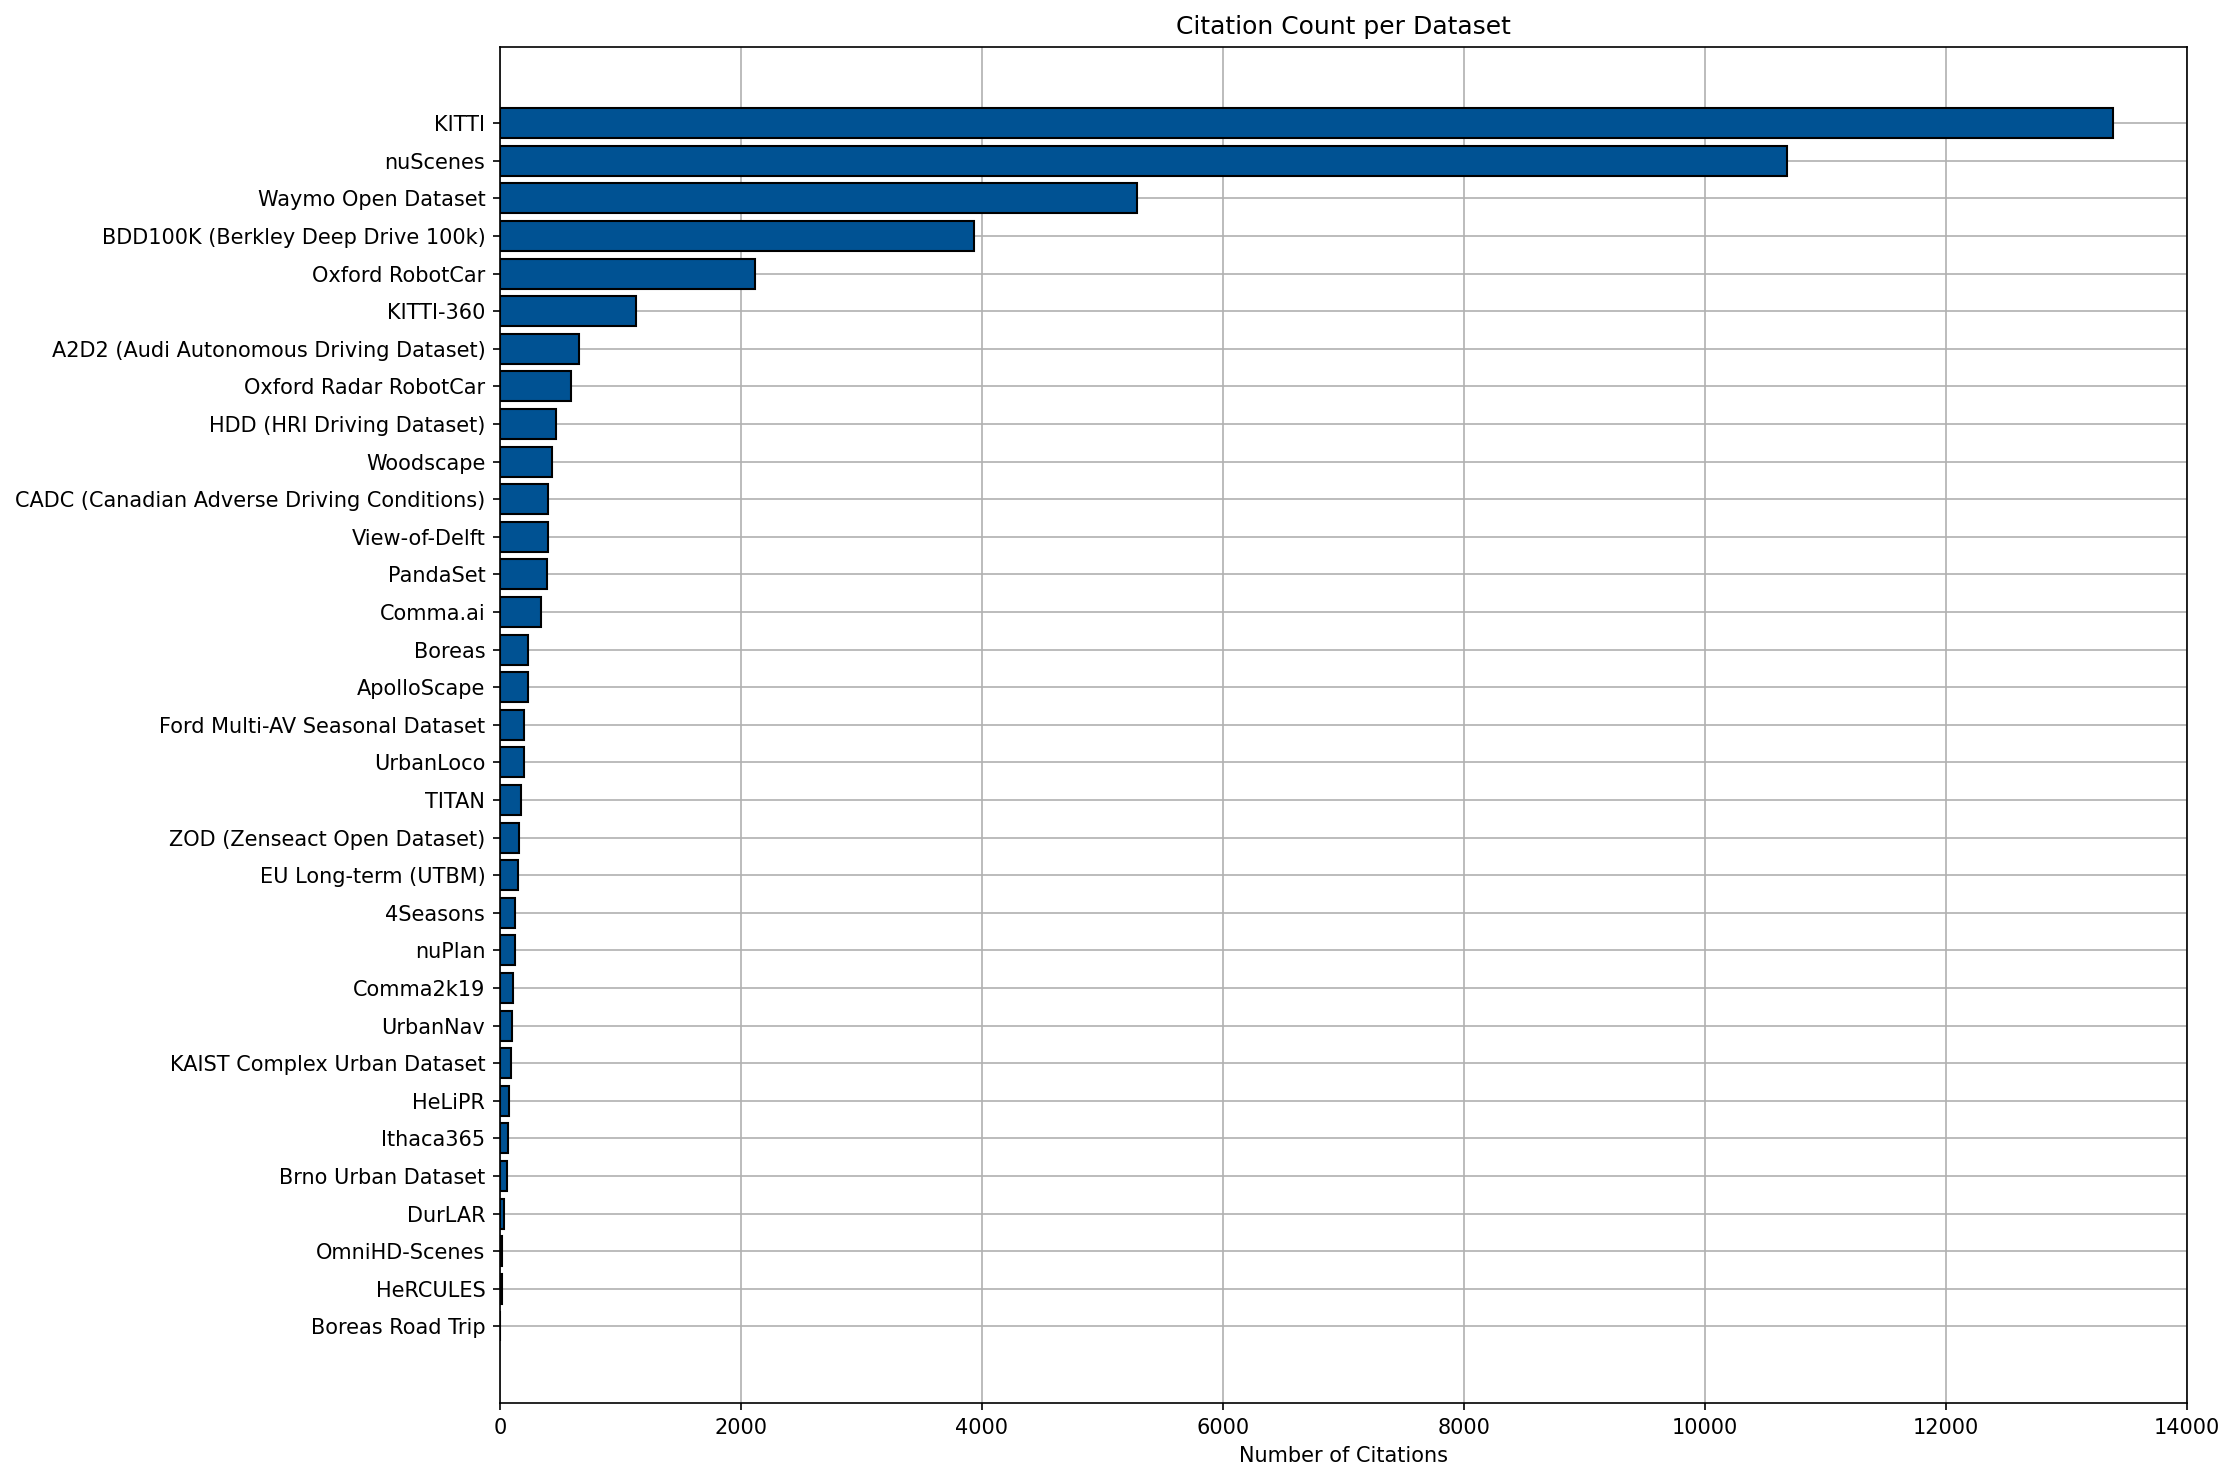
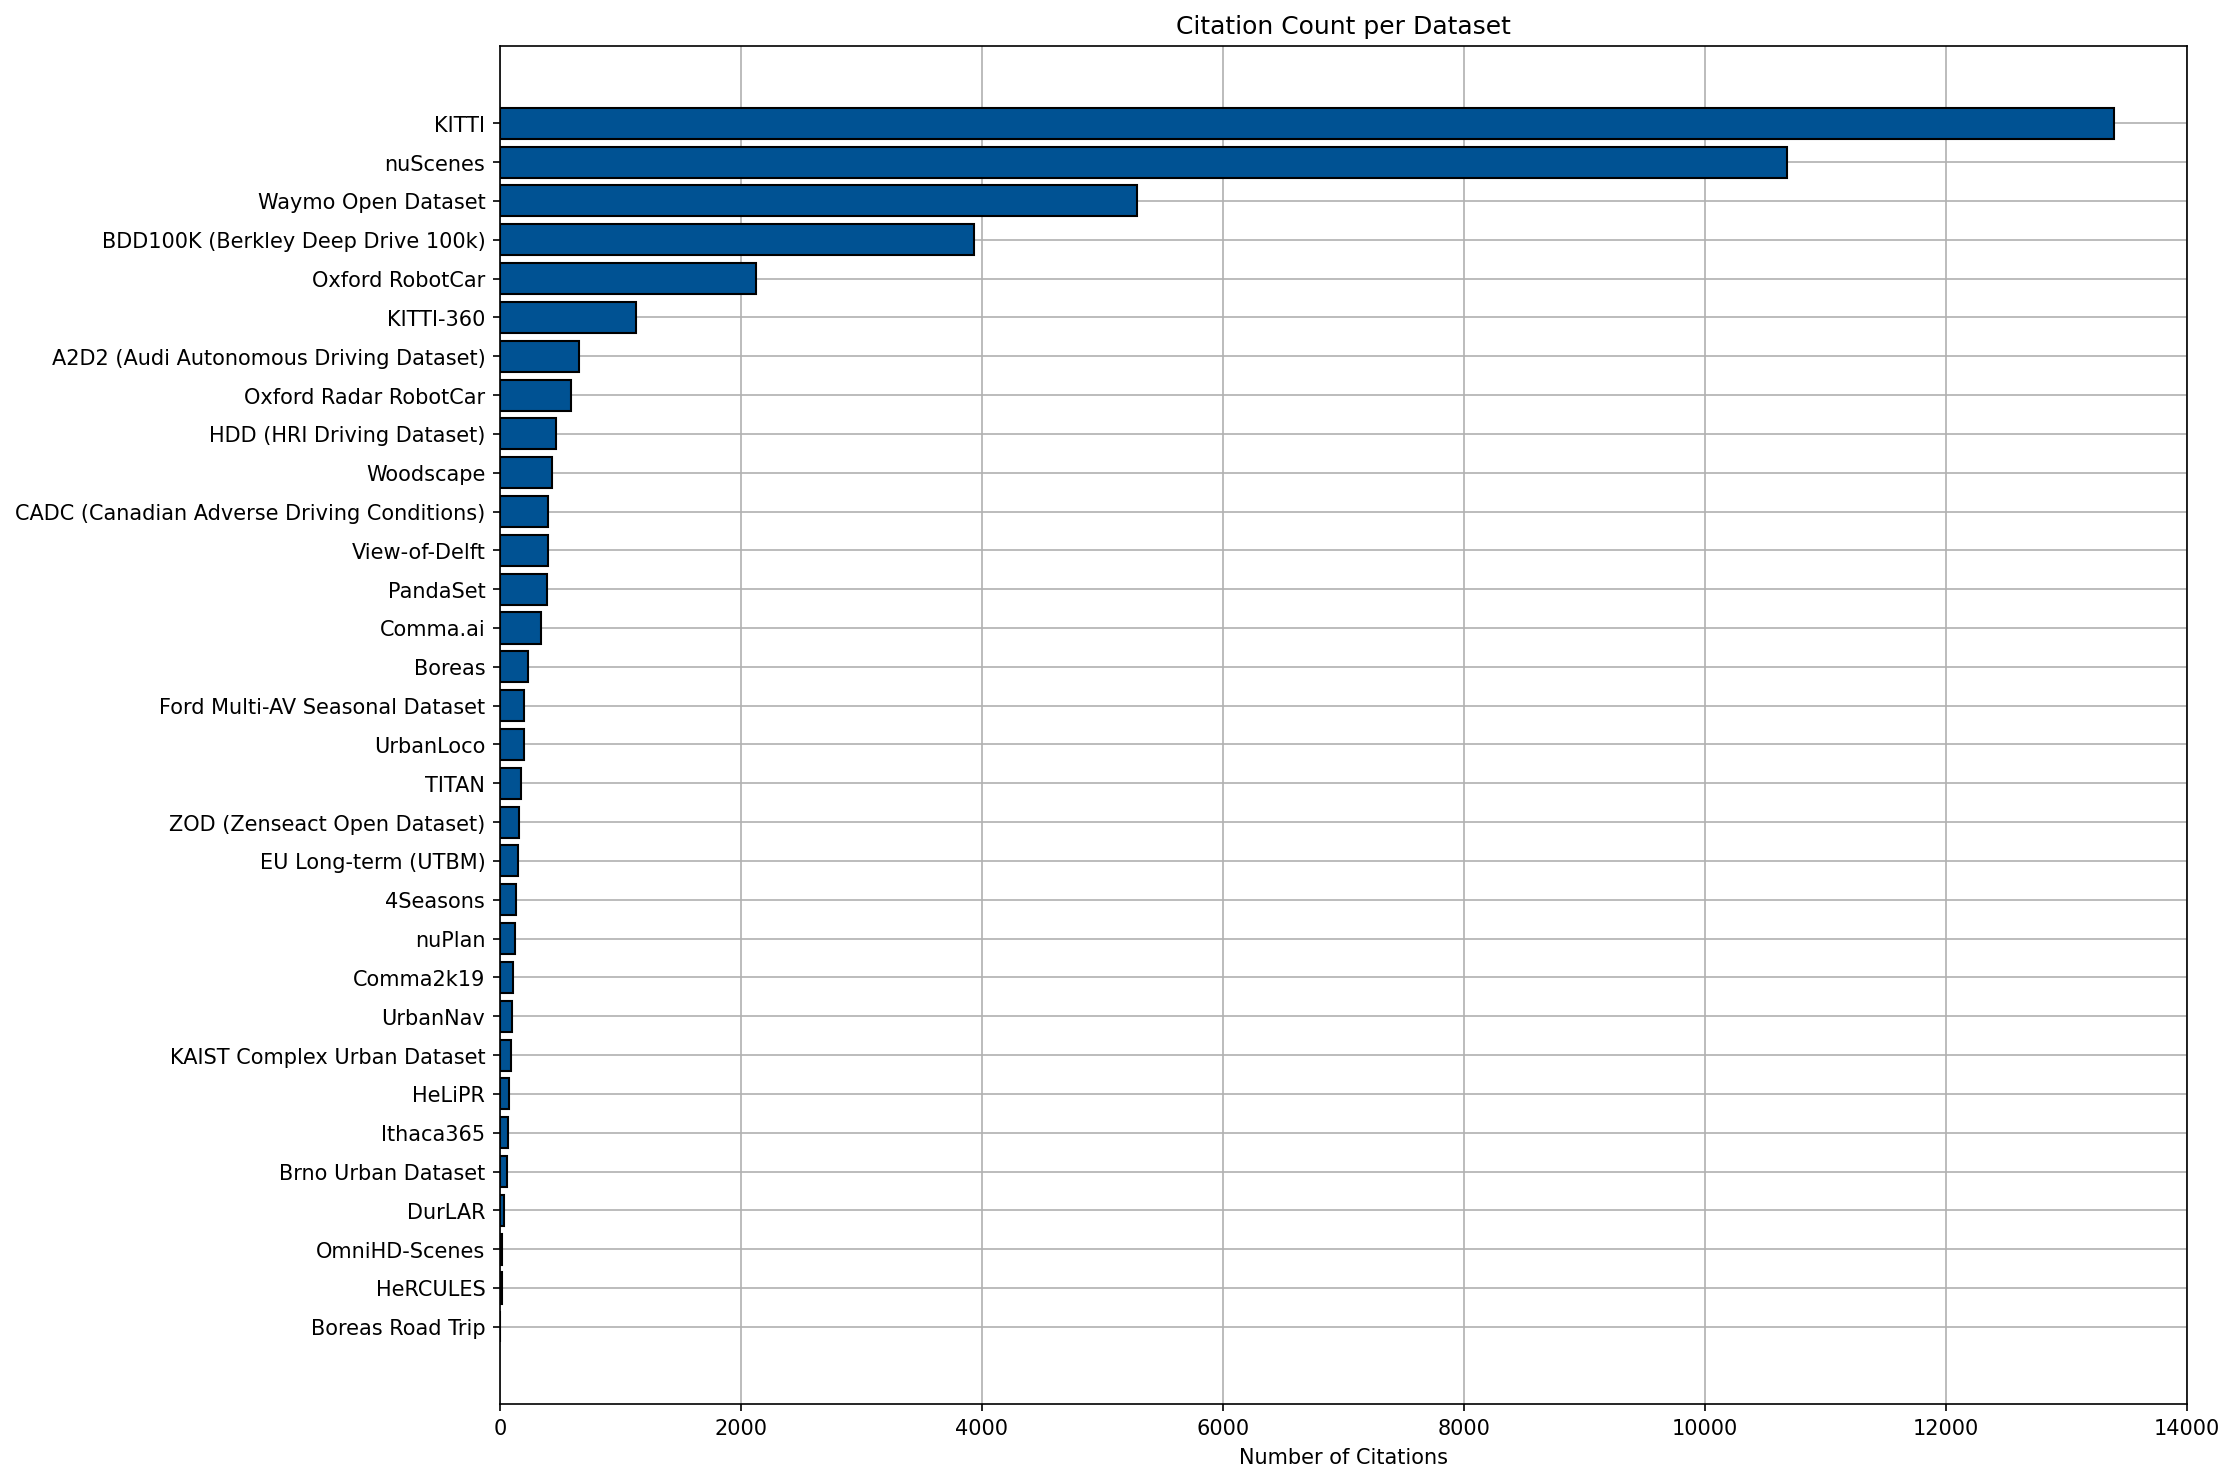
Remove Apolloscape (no imu)

Changed region(s): [[0.0, 0.0932, 0.9884, 0.9007], [0.5251, 0.0, 0.6795, 0.0311], [0.556, 0.9629, 0.6486, 0.9939]]

diff --git a/dataset/filtered_dataset_analysis/16_dss_score.py b/dataset/filtered_dataset_analysis/16_dss_score.py
@@ -51,7 +51,7 @@ df['Ps'] = df['can_bus'].fillna(0)
 # ── DSS = 0.6*Qs + 0.25*Ds + 0.15*Ps ──────────────────────────────────────────
 # Citation score removed — citation count reflects perception task adoption,
 # not inertial signal quality, which is the focus of this thesis
-df['DSS'] = 0.60 * df['Qs'] + 0.25 * df['Ds'] + 0.15 * df['Ps']
+df['DSS'] = 0.6 * df['Qs'] + 0.25 * df['Ds'] + 0.15 * df['Ps']
 
 # ── Plot A — Horizontal bar (DSS sorted) ─────────────────────────────────────
 df_sorted = df[['dataset', 'DSS']].sort_values('DSS')
